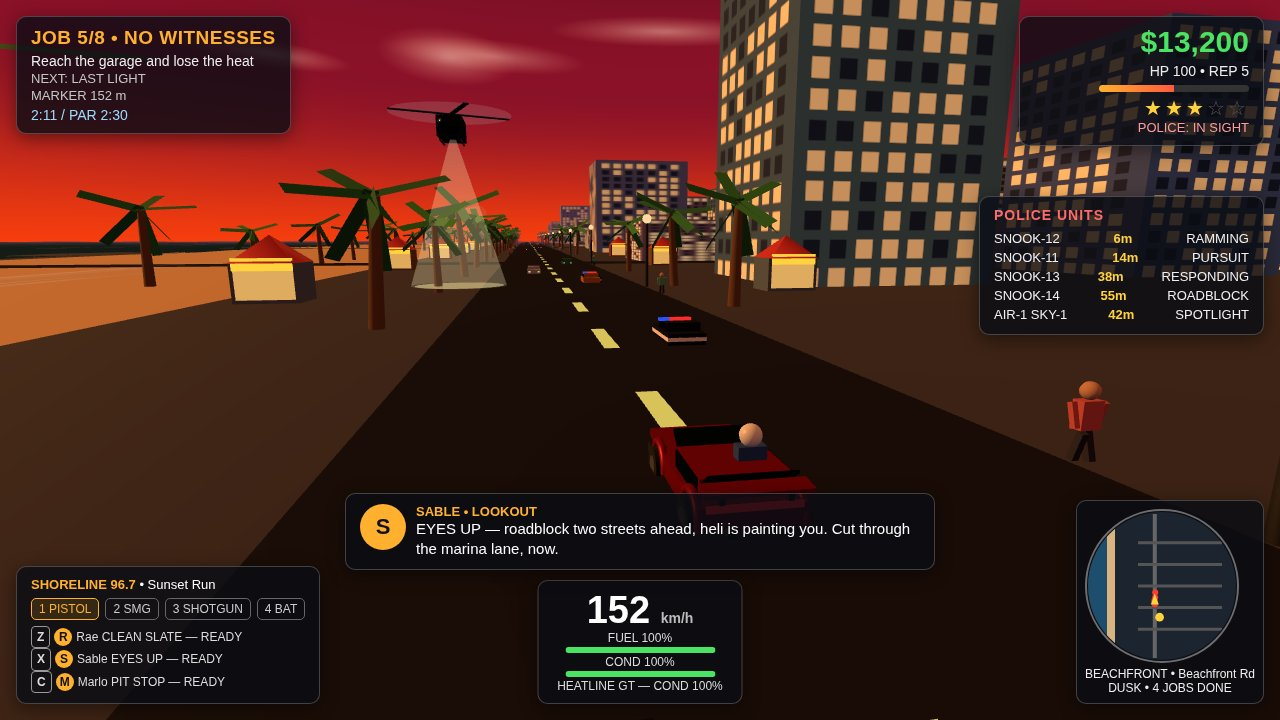
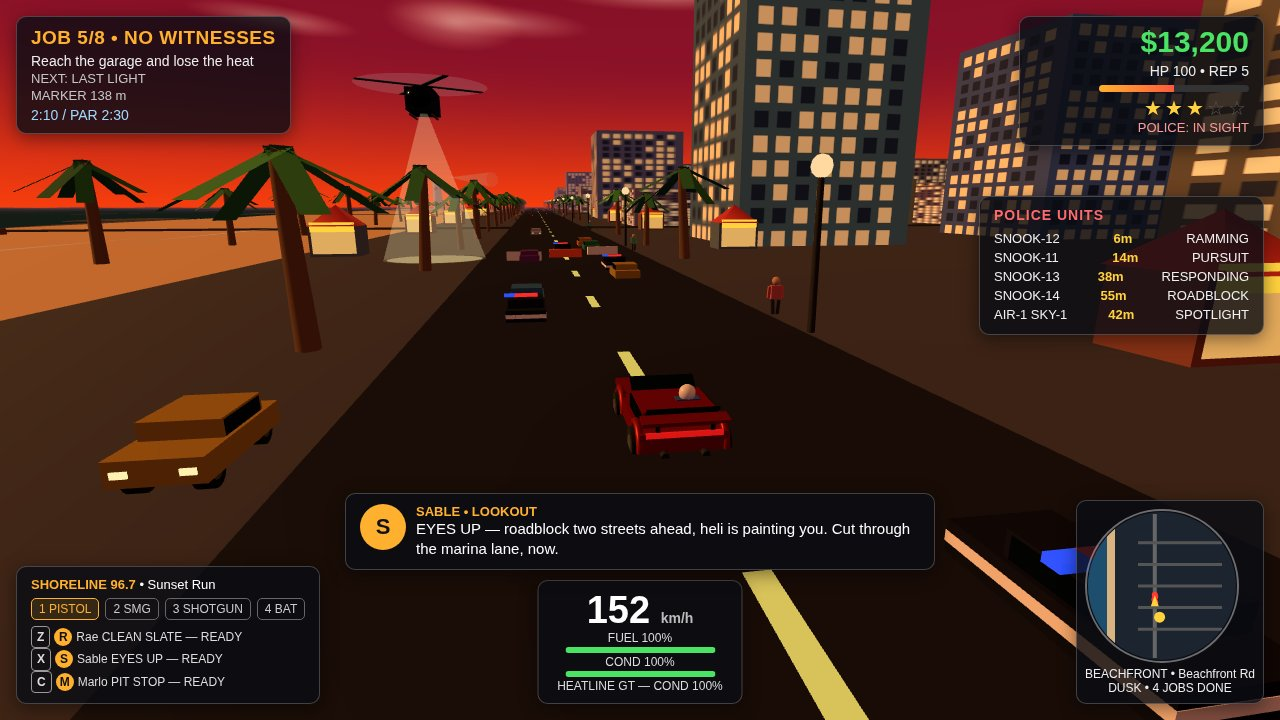
v11 fix round 2: ocean in chase frames, sun glitter, yard entrance staging, pistol+flash

diff --git a/game/src/main.js b/game/src/main.js
@@ -292,13 +292,14 @@ function placeCamera(mode) {
     camera.lookAt(-76, 5, 102);
   } else if (mode === 'chase' || mode === 'chaseWide') {
     const back = mode === 'chase' ? 12 : 14;
-    const side = mode === 'chase' ? 2.0 : 3.0;
-    const up = mode === 'chase' ? 3.6 : 5.6;
+    const side = mode === 'chase' ? 3.2 : 3.6;
+    const up = mode === 'chase' ? 3.2 : 5.6;
     camera.position.copy(car).addScaledVector(fwd, -back).addScaledVector(right, side).add(new THREE.Vector3(0, up, 0));
-    camera.lookAt(car.clone().addScaledVector(fwd, 4).add(new THREE.Vector3(0, 1.0, 0)));
+    // Pan the view toward the ocean (west) so the water is in the frame.
+    camera.lookAt(car.clone().addScaledVector(fwd, 4).addScaledVector(right, -5).add(new THREE.Vector3(0, 1.0, 0)));
   } else if (mode === 'foot') {
     const p = player.group.position;
-    camera.position.copy(p).addScaledVector(forwardVec(), -4.6).addScaledVector(rightVec(), 1.3).add(new THREE.Vector3(0, 2.3, 0));
+    camera.position.copy(p).addScaledVector(forwardVec(), -4.6).addScaledVector(rightVec(), 2.0).add(new THREE.Vector3(0, 2.3, 0));
     camera.lookAt(p.clone().addScaledVector(forwardVec(), 12).add(new THREE.Vector3(0, 1.2, 0)));
   } else if (mode === 'lighthouse') {
     camera.position.set(-108, 9, -408);
@@ -339,17 +340,17 @@ function applyShot(name) {
     if (st.heli) placeHeli(st.heliOff);
     if (name === 'chase') placeRoadblocks();
   } else if (name === 'mission') {
-    // Open ground in the middle of the yard: player south, three hostiles in
-    // a loose arc ahead, containers and crates as the backdrop.
+    // Open ground at the yard entrance: player just outside the gate, three
+    // hostiles in a loose arc ahead, the container rows as the backdrop.
     heading = 0; // facing north (+z) into the yard
-    player.group.position.set(MAP.yard.x, 0, MAP.yard.z - 18);
+    player.group.position.set(MAP.yard.x, 0, MAP.yard.z - 34);
     player.group.rotation.y = heading;
     player.group.visible = true;
     S.driving = false;
     car.position.set(MAP.yard.x - 34, 0, MAP.yard.z + 30);
     car.rotation.y = heading;
     S.targetsDown = st.targets;
-    const spots = [[-14, 18], [0, 26], [14, 18]];
+    const spots = [[-14, -23], [0, -21], [14, -23]];
     enemies.forEach((e, i) => {
       e.group.visible = true;
       e.group.position.set(MAP.yard.x + spots[i][0], 0, MAP.yard.z + spots[i][1]);
@@ -380,7 +381,7 @@ function placePolice(st) {
   // camera line, the rest run ahead in the lanes.
   const car = hero.group.position;
   const slots = [
-    { x: MAP.roadX + 4, relZ: 8 },   // 6 m behind, right flank, in frame
+    { x: MAP.roadX + 3.5, relZ: -10 },  // closest unit, ahead-right, in frame
     { x: MAP.roadX - 3.5, relZ: -16 },
     { x: MAP.roadX + 3.5, relZ: -38 },
     { x: MAP.roadX, relZ: -55 },
@@ -668,8 +669,9 @@ function updateWorld(dt, t) {
       syncSpotlight();
     }
     S.speedKmh = S.speed * 3.6;
-    // the drift popup must still be on screen at capture time
-    if (shotName === 'chase' && Math.floor(S.playT / 2.5) !== Math.floor((S.playT - dt) / 2.5)) {
+    // the drift popup must still be on screen at capture time: re-show it
+    // on wall-clock time, since game time runs slower than real time here
+    if (shotName === 'chase' && Math.floor(t / 2.5) !== Math.floor((t - dt) / 2.5)) {
       showPopup('DRIFT x3 +$150');
     }
   }

diff --git a/game/src/world.js b/game/src/world.js
@@ -101,10 +101,24 @@ export function buildWorld(scene, seed) {
   oceanGeo.rotateX(-Math.PI / 2);
   const oceanMat = new THREE.MeshStandardMaterial({ color: 0x1d4e6e, roughness: 0.25, metalness: 0.55 });
   const ocean = new THREE.Mesh(oceanGeo, oceanMat);
-  ocean.position.set(-520, 0.4, 0);
+  ocean.position.set(-490, 0.4, 0);
   scene.add(ocean);
   out.ocean = ocean;
   out.oceanBase = oceanGeo.attributes.position.array.slice();
+  // Sun glitter: a warm streak on the water running toward the low sun.
+  const glitterTex = canvasTex(256, 64, (g, w, h) => {
+    const grad = g.createLinearGradient(0, 0, w, 0);
+    grad.addColorStop(0, 'rgba(255,150,60,0)');
+    grad.addColorStop(0.55, 'rgba(255,180,90,0.35)');
+    grad.addColorStop(1, 'rgba(255,210,130,0.85)');
+    g.fillStyle = grad; g.fillRect(0, 0, w, h);
+  });
+  const glitter = new THREE.Mesh(
+    new THREE.PlaneGeometry(280, 70),
+    new THREE.MeshBasicMaterial({ map: glitterTex, transparent: true, opacity: 0.55, depthWrite: false }));
+  glitter.rotation.x = -Math.PI / 2;
+  glitter.position.set(-280, 0.55, -60);
+  scene.add(glitter);
   const foamTex = canvasTex(64, 256, (g, w, h) => {
     g.clearRect(0, 0, w, h);
     for (let i = 0; i < 90; i++) {
@@ -349,11 +363,17 @@ export function buildWorld(scene, seed) {
     yard.add(cr);
   }
   const fenceMat = new THREE.MeshStandardMaterial({ color: 0x777777, roughness: 0.7, metalness: 0.6 });
-  for (const [fx, fz, w, d] of [[0, -26, 52, 0.4], [0, 26, 52, 0.4], [-26, 0, 0.4, 52], [26, 0, 0.4, 52]]) {
+  // Tall fences on the north, east and west sides only.
+  for (const [fx, fz, w, d] of [[0, 26, 52, 0.4], [-26, 0, 0.4, 52], [26, 0, 0.4, 52]]) {
     const f = new THREE.Mesh(new THREE.BoxGeometry(w, 3, d), fenceMat);
     f.position.set(fx, 1.5, fz);
     yard.add(f);
   }
+  // Low south barrier instead of a tall fence: the yard entrance stays open
+  // so a camera south of the yard can see in over it.
+  const gate = new THREE.Mesh(new THREE.BoxGeometry(52, 1.1, 0.4), fenceMat);
+  gate.position.set(0, 0.55, -27);
+  yard.add(gate);
   yard.position.set(MAP.yard.x, 0, MAP.yard.z);
   scene.add(yard);
   out.yard = yard;

diff --git a/game/src/vehicles.js b/game/src/vehicles.js
@@ -264,17 +264,26 @@ export function makePlayer() {
   legR.position.x = 0.16;
   // Pistol held out in front of the right hand, big enough to read on camera.
   const pistol = new THREE.Group();
-  const gunMetal = new THREE.MeshStandardMaterial({ color: 0x1a1a1a, roughness: 0.3, metalness: 0.8 });
+  const gunMetal = new THREE.MeshStandardMaterial({ color: 0x777788, roughness: 0.35, metalness: 0.8 });
   const barrel = new THREE.Mesh(new THREE.BoxGeometry(0.12, 0.14, 0.7), gunMetal);
   const grip = new THREE.Mesh(new THREE.BoxGeometry(0.12, 0.34, 0.14), gunMetal);
   grip.position.set(0, -0.18, -0.22);
   pistol.add(barrel, grip);
   pistol.position.set(0.46, 1.28, 0.72);
-  // Muzzle flash: a bright star that pops for a few frames on each shot.
-  const flashMat = new THREE.MeshBasicMaterial({ color: 0xffe27a, transparent: true, opacity: 0 });
-  const flash = new THREE.Mesh(new THREE.ConeGeometry(0.3, 0.95, 6), flashMat);
-  flash.rotation.x = Math.PI / 2;
-  flash.position.set(0.46, 1.28, 1.2);
+  // Muzzle flash: a glowing ball at the barrel tip — reads from any angle.
+  const flashC = document.createElement('canvas');
+  flashC.width = flashC.height = 64;
+  const fg = flashC.getContext('2d');
+  const fr = fg.createRadialGradient(32, 32, 2, 32, 32, 30);
+  fr.addColorStop(0, 'rgba(255,240,170,1)');
+  fr.addColorStop(0.4, 'rgba(255,200,80,0.9)');
+  fr.addColorStop(1, 'rgba(255,150,40,0)');
+  fg.fillStyle = fr; fg.fillRect(0, 0, 64, 64);
+  const flashTex = new THREE.CanvasTexture(flashC);
+  const flashMat = new THREE.SpriteMaterial({ map: flashTex, transparent: true, opacity: 0, depthWrite: false });
+  const flash = new THREE.Sprite(flashMat);
+  flash.scale.set(1.5, 1.5, 1);
+  flash.position.set(0.46, 1.28, 1.25);
   g.add(torso, head, cap, armR, armL, legL, legR, pistol, flash);
   return { group: g, pistol, flash, flashMat, legL, legR };
 }

diff --git a/game/src/config.js b/game/src/config.js
@@ -8,8 +8,8 @@ export const MAP = {
   // beach road running north-south between them.
   size: 1200,
   roadX: -60,        // beach road centreline (runs along z)
-  shoreX: -110,      // sand starts here
-  waterX: -170,      // ocean starts here
+  shoreX: -95,       // sand starts here
+  waterX: -140,      // ocean starts here
   yard: { x: 140, z: 150 },       // industrial container yard (job 4)
   garage: { x: -20, z: 260 },     // lose-the-heat garage (job 5)
   safehouse: { x: 60, z: -240 },
